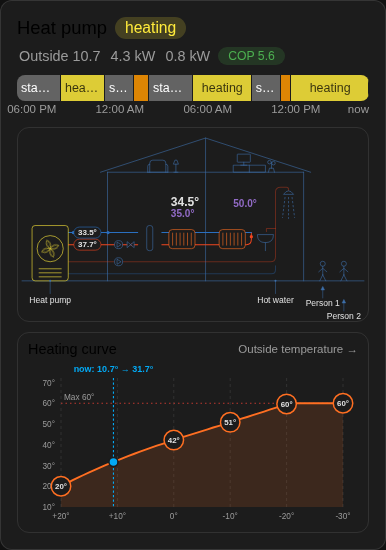
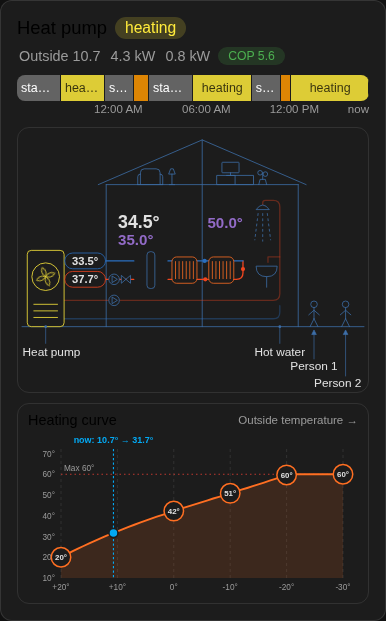
card: compact diagram, readable text at normal card width
The 680-wide drawing shrank to about half size in a normal card, so the
heat pump chips and labels were hard to read. The canvas is now 520 wide:
narrower house, smaller outdoor unit, shower left of the riser, people
right next to the house with arrows reaching up to their feet. Text is
larger (values 27/23, chips 17, labels 18), labels are kept inside the
canvas. Screenshots updated.

diff --git a/custom_components/open3e_gateway/www/open3e-heatpump-card.js b/custom_components/open3e_gateway/www/open3e-heatpump-card.js
@@ -303,10 +303,10 @@ class Open3eHeatpumpCard extends HTMLElement {
       return `<path d="${d}" fill="none" stroke="${color}" stroke-width="2" stroke-linecap="round" opacity="${on ? 1 : 0.35}"/>${dots}`;
     };
     const chip = (x, y, v, color, tile) => {
-      const text = deg(v), w = Math.max(46, text.length * 8 + 14);
+      const text = deg(v), w = Math.max(50, text.length * 10 + 12);
       return `<g class="${this._id(tile) ? "click" : ""}" data-entity="${esc(this._id(tile))}">
-        <rect x="${x - w / 2}" y="${y - 11}" width="${w}" height="22" rx="11" fill="${BG}" stroke="${color}" stroke-width="1.2"/>
-        <text x="${x}" y="${y + 4.5}" text-anchor="middle" class="tv">${esc(text)}</text></g>`;
+        <rect x="${x - w / 2}" y="${y - 12}" width="${w}" height="24" rx="12" fill="${BG}" stroke="${color}" stroke-width="1.2"/>
+        <text x="${x}" y="${y + 6}" text-anchor="middle" class="tv">${esc(text)}</text></g>`;
     };
     const pump = (x, y) => `<g stroke="${LINE}" stroke-width="1.2" fill="${BG}">
       <circle cx="${x}" cy="${y}" r="8"/><polygon points="${x - 3},${y - 5} ${x - 3},${y + 5} ${x + 5},${y}" fill="none" stroke-linejoin="round"/></g>`;
@@ -316,9 +316,10 @@ class Open3eHeatpumpCard extends HTMLElement {
       const fins = Array.from({ length: 6 }, (_, i) => { const fx = x + (w / 7) * (i + 1); return `M${fx},${y + 7} V${y + h - 7}`; }).join(" ");
       return `<rect x="${x}" y="${y}" width="${w}" height="${h}" rx="7" fill="${BG}" stroke="${color}" stroke-width="1.2"/><path d="${fins}" fill="none" stroke="${color}" stroke-width="1.2" stroke-linecap="round"/>`;
     };
+    const W = 520, fit = (x, text, px = 9.5) => Math.min(W - 2 - (String(text).length * px) / 2, Math.max(2 + (String(text).length * px) / 2, x));
     // Callout like in the reference picture: dot on the part, line down, label below.
     const callout = (x, y0, text) => `<g class="callout"><circle cx="${x}" cy="${y0}" r="2" fill="${LINE}"/>
-      <line x1="${x}" x2="${x}" y1="${y0}" y2="${y0 + 26}" stroke="${LINE}" stroke-width="1"/><text x="${x}" y="${y0 + 44}" text-anchor="middle">${esc(text)}</text></g>`;
+      <line x1="${x}" x2="${x}" y1="${y0}" y2="${y0 + 26}" stroke="${LINE}" stroke-width="1"/><text x="${fit(x, text)}" y="${y0 + 44}" text-anchor="middle">${esc(text)}</text></g>`;
     // Two figures in the yard; an arrow below each points up to the figure, the name under the arrow.
     const person = (n, x, labelY) => {
       const eid = this._config[`person${n}_entity`] || "", st = eid ? this._hass.states[eid] : null;
@@ -327,66 +328,66 @@ class Open3eHeatpumpCard extends HTMLElement {
       return `<g class="${eid ? "click" : ""}" data-entity="${esc(eid)}" stroke="${color}" fill="none" stroke-width="1.2" stroke-linecap="round" stroke-linejoin="round">
         <circle cx="${x}" cy="262" r="5"/>
         <path d="M${x},267 V284 M${x - 8},278 L${x},271 L${x + 8},278 M${x},284 L${x - 6},296 M${x},284 L${x + 6},296"/>
-        <line x1="${x}" x2="${x}" y1="${labelY - 16}" y2="${labelY - 36}" stroke-width="1"/>
-        <polygon points="${x - 3.5},${labelY - 32} ${x + 3.5},${labelY - 32} ${x},${labelY - 39}" fill="${color}" stroke-width="1"/>
-        <text x="${x}" y="${labelY}" text-anchor="middle" class="pn" stroke="none">${esc(name)}</text></g>`;
+        <line x1="${x}" x2="${x}" y1="${labelY - 17}" y2="308" stroke-width="1"/>
+        <polygon points="${x - 3.5},308 ${x + 3.5},308 ${x},301" fill="${color}" stroke-width="1"/>
+        <text x="${fit(x, name)}" y="${labelY}" text-anchor="middle" class="pn" stroke="none">${esc(name)}</text></g>`;
     };
-    const people = this._config.show_people === false ? "" : person(1, 598, 346) + person(2, 640, 372);
+    const people = this._config.show_people === false ? "" : person(1, 444, 362) + person(2, 492, 388);
     const vals = (x, y, act, set, actTile, setTile, targetOnly = false) => `
       ${targetOnly && set !== null ? "" : `<text x="${x}" y="${y}" class="va click" data-entity="${esc(this._id(actTile))}">${esc(deg(act))}</text>`}
-      ${set !== null ? `<text x="${x}" y="${targetOnly ? y : y + 22}" class="vt click" data-entity="${esc(this._id(setTile))}">${esc(deg(set))}</text>` : ""}`;
+      ${set !== null ? `<text x="${x}" y="${targetOnly ? y : y + 26}" class="vt click" data-entity="${esc(this._id(setTile))}">${esc(deg(set))}</text>` : ""}`;
 
     // Lanes (all above ground, ground line y 296): heating return / flow, hot water flow / return.
-    const HR = 200, HF = 224, WF = 258, WR = 282, HPX = 92, SX = 254, END = 456, RX = 504;
+    const HR = 196, HF = 224, WF = 256, WR = 284, HPX = 64, SX = 196, END = 336, RX = 392;
     const hpFlowY = dhwOn ? WF : HF, hpRetY = dhwOn ? WR : HR;
     let heat;
     if (storage === "none") {
       heat = `${pipe(`${HPX},${HF} ${END},${HF} ${END},${HR}`, FLOW, heatOn)}${pipe(`${END},${HR} ${HPX},${HR}`, RET, heatOn)}`;
     } else {
-      const sx0 = SX - 24, sx1 = SX + 24;
+      const sx0 = SX - 26, sx1 = SX + 26;
       heat = `${pipe(`${HPX},${HF} ${sx0},${HF}`, FLOW, heatOn)}${pipe(`${sx1},${HF} ${END},${HF} ${END},${HR}`, FLOW, heatOn)}
         ${pipe(`${END},${HR} ${sx1},${HR}`, RET, heatOn)}${pipe(`${sx0},${HR} ${HPX},${HR}`, RET, heatOn)}`;
       heat += storage === "buffer"
         ? `<g class="${this._id("buffer") ? "click" : ""}" data-entity="${esc(this._id("buffer"))}">
-            <rect x="${sx0}" y="184" width="48" height="54" rx="14" fill="${BG}" stroke="${LINE}" stroke-width="1.2"/>
+            <rect x="${sx0}" y="180" width="52" height="60" rx="14" fill="${BG}" stroke="${LINE}" stroke-width="1.2"/>
             ${buf !== null ? `<text x="${SX}" y="216" text-anchor="middle" class="tv">${esc(deg(buf))}</text>` : ""}</g>`
-        : `<rect x="${SX - 6}" y="186" width="12" height="50" rx="5" fill="${BG}" stroke="${LINE}" stroke-width="1.2"/>`;
+        : `<rect x="${SX - 6}" y="182" width="12" height="56" rx="5" fill="${BG}" stroke="${LINE}" stroke-width="1.2"/>`;
     }
-    const petals = [0, 90, 180, 270].map((a) => `<path d="M0,0 Q-7,-10 0,-18 Q7,-10 0,0" transform="rotate(${a})"/>`).join("");
+    const petals = [0, 90, 180, 270].map((a) => `<path d="M0,0 Q-6,-8 0,-15 Q6,-8 0,0" transform="rotate(${a})"/>`).join("");
     return `<div class="schema">
-      <svg viewBox="0 0 680 376" role="img" aria-label="${esc(t.schema)}">
+      <svg viewBox="0 0 520 396" role="img" aria-label="${esc(t.schema)}">
         <g class="sc">
-          <path d="M170,296 V80 M560,80 V296 M170,80 H560 M156,80 L365,12 L574,80 M365,12 V296"/>
-          <line x1="0" x2="680" y1="296" y2="296"/>
-          <path d="M254,80 V62 Q254,56 260,56 H280 Q286,56 286,62 V80 M250,80 V68 Q250,64 254,64 M290,80 V68 Q290,64 286,64 M250,80 H290"/>
-          <path d="M302,80 H310 M306,80 V64 M301,64 L304,56 H308 L311,64 Z"/>
-          <rect x="420" y="66" width="64" height="14"/><line x1="452" y1="66" x2="452" y2="80"/>
-          <rect x="428" y="44" width="26" height="16" rx="1"/><path d="M441,60 V66 M435,66 H447"/>
-          <path d="M490,80 L492,72 H500 L502,80 M496,72 V60"/><circle cx="492" cy="60" r="3.5"/><circle cx="500" cy="62" r="3.5"/>
+          <path d="M128,296 V80 M420,80 V296 M128,80 H420 M116,80 L274,12 L432,80 M274,12 V296"/>
+          <line x1="0" x2="520" y1="296" y2="296"/>
+          <path d="M180,80 V62 Q180,56 186,56 H204 Q210,56 210,62 V80 M176,80 V68 Q176,64 180,64 M214,80 V68 Q214,64 210,64 M176,80 H214"/>
+          <path d="M224,80 H232 M228,80 V64 M223,64 L226,56 H230 L233,64 Z"/>
+          <rect x="296" y="66" width="56" height="14"/><line x1="324" y1="66" x2="324" y2="80"/>
+          <rect x="304" y="46" width="26" height="16" rx="1"/><path d="M317,62 V66 M311,66 H323"/>
+          <path d="M360,80 L362,72 H370 L372,80 M366,72 V62"/><circle cx="362" cy="62" r="3.5"/><circle cx="370" cy="64" r="3.5"/>
         </g>
         ${heat}
-        ${pipe(`${HPX},${WF} ${RX},${WF} ${RX},110 ${RX + 26},110 ${RX + 26},118`, FLOW, dhwOn)}
+        ${pipe(`${HPX},${WF} ${RX},${WF} ${RX},104 ${RX - 26},104 ${RX - 26},112`, FLOW, dhwOn)}
         ${pipe(`${RX},${WF + 8} ${RX},${WR} ${HPX},${WR}`, RET, dhwOn)}
         <g class="click" data-entity="${esc(this._id("dhw_set") || this._id("dhw"))}" fill="none" stroke="${LINE}" stroke-width="1.2" stroke-linecap="round" stroke-linejoin="round">
-          <path d="M${RX},192 H${RX - 18} V198" stroke="${FLOW}" stroke-width="2" opacity="${dhwOn ? 1 : 0.35}"/>
+          <path d="M${RX},190 H${RX - 18} V198" stroke="${FLOW}" stroke-width="2" opacity="${dhwOn ? 1 : 0.35}"/>
           <path d="M${RX - 36},204 H${RX - 4} Q${RX - 4},220 ${RX - 20},220 Q${RX - 36},220 ${RX - 36},204 Z M${RX - 20},220 V236" fill="${BG}"/>
-          <path d="M${RX + 16},124 Q${RX + 26},110 ${RX + 36},124 Z" fill="${BG}"/>
-          <path d="M${RX + 19},130 L${RX + 14},170 M${RX + 26},130 V172 M${RX + 33},130 L${RX + 38},170" stroke-dasharray="3 5" class="${dhwOn && !still ? "spray" : ""}"/>
+          <path d="M${RX - 36},118 Q${RX - 26},104 ${RX - 16},118 Z" fill="${BG}"/>
+          <path d="M${RX - 33},124 L${RX - 38},164 M${RX - 26},124 V166 M${RX - 19},124 L${RX - 14},164" stroke-dasharray="3 5" class="${dhwOn && !still ? "spray" : ""}"/>
         </g>
         <g class="click" data-entity="${esc(this._id("climate") || this._id("flow_hk"))}">
-          ${radiator(292, 194, 52, 38, heatOn ? C.heat : LINE)}${radiator(392, 194, 52, 38, heatOn ? C.heat : LINE)}
+          ${radiator(228, 190, 38, 40, heatOn ? C.heat : LINE)}${radiator(284, 190, 38, 40, heatOn ? C.heat : LINE)}
         </g>
-        ${pump(192, HF)}${pump(192, WF)}${valve(216, hpFlowY)}
+        ${pump(140, HF)}${pump(140, WF)}${valve(158, hpFlowY)}
         <g class="click" data-entity="${esc(this._id("compressor"))}">
-          <rect x="20" y="186" width="72" height="110" rx="6" fill="${BG}" stroke="${hpColor}" stroke-width="1.2"/>
-          <circle cx="56" cy="232" r="26" fill="none" stroke="${hpColor}" stroke-width="1.2"/>
-          <g transform="translate(56 232)" stroke="${hpColor}" stroke-width="1.2" fill="none" stroke-linejoin="round"><g class="${comp ? "spin" : ""}">${petals}</g></g>
-          <path d="M34,272 H78 M34,280 H78 M34,288 H78" stroke="${hpColor}" stroke-width="1.2" stroke-linecap="round"/>
+          <rect x="8" y="180" width="56" height="116" rx="6" fill="${BG}" stroke="${hpColor}" stroke-width="1.2"/>
+          <circle cx="36" cy="220" r="21" fill="none" stroke="${hpColor}" stroke-width="1.2"/>
+          <g transform="translate(36 220)" stroke="${hpColor}" stroke-width="1.2" fill="none" stroke-linejoin="round"><g class="${comp ? "spin" : ""}">${petals}</g></g>
+          <path d="M18,262 H54 M18,272 H54 M18,282 H54" stroke="${hpColor}" stroke-width="1.2" stroke-linecap="round"/>
         </g>
-        ${chip(130, hpFlowY, wp, FLOW, "flow_wp")}${chip(130, hpRetY, ret, RET, "return")}
-        ${vals(296, 148, hk, target, "flow_hk", "flow_target")}
-        ${vals(420, 150, tv, tset, "dhw", "dhw_set", !dhwOn)}
-        ${callout(56, 296, t.lbl_hp)}${callout(RX, 296, t.lbl_dhw)}
+        ${chip(96, hpFlowY, wp, FLOW, "flow_wp")}${chip(96, hpRetY, ret, RET, "return")}
+        ${vals(146, 146, hk, target, "flow_hk", "flow_target")}
+        ${vals(282, 146, tv, tset, "dhw", "dhw_set", !dhwOn)}
+        ${callout(36, 296, t.lbl_hp)}${callout(RX, 296, t.lbl_dhw)}
         ${people}
       </svg></div>`;
   }
@@ -719,12 +720,12 @@ const STYLE = `
             border: 1px solid color-mix(in srgb, var(--disabled-color, #9e9e9e) 25%, transparent); }
   .schema svg { display: block; width: 100%; height: auto; overflow: visible; }
   .schema .sc { fill: none; stroke: #3d6ea8; stroke-width: 1.2; stroke-linecap: round; stroke-linejoin: round; }
-  .schema .callout text { font-size: 17px; fill: var(--primary-text-color); }
+  .schema .callout text { font-size: 18px; fill: var(--primary-text-color); }
   .schema text { fill: var(--primary-text-color); font-family: inherit; }
-  .schema .tv { font-size: 16px; font-weight: 600; }
-  .schema .pn { font-size: 17px; font-weight: 500; }
-  .schema .va { font-size: 24px; font-weight: 600; fill: var(--primary-text-color); }
-  .schema .vt { font-size: 20px; font-weight: 600; fill: ${C.target}; }
+  .schema .tv { font-size: 17px; font-weight: 600; }
+  .schema .pn { font-size: 18px; font-weight: 500; }
+  .schema .va { font-size: 27px; font-weight: 600; fill: var(--primary-text-color); }
+  .schema .vt { font-size: 23px; font-weight: 600; fill: ${C.target}; }
   .schema foreignObject ha-icon { display: block; }
   .schema .spin { animation: o3e-spin 1.4s linear infinite; }
   .schema .spray { animation: o3e-spray 0.6s linear infinite; }
